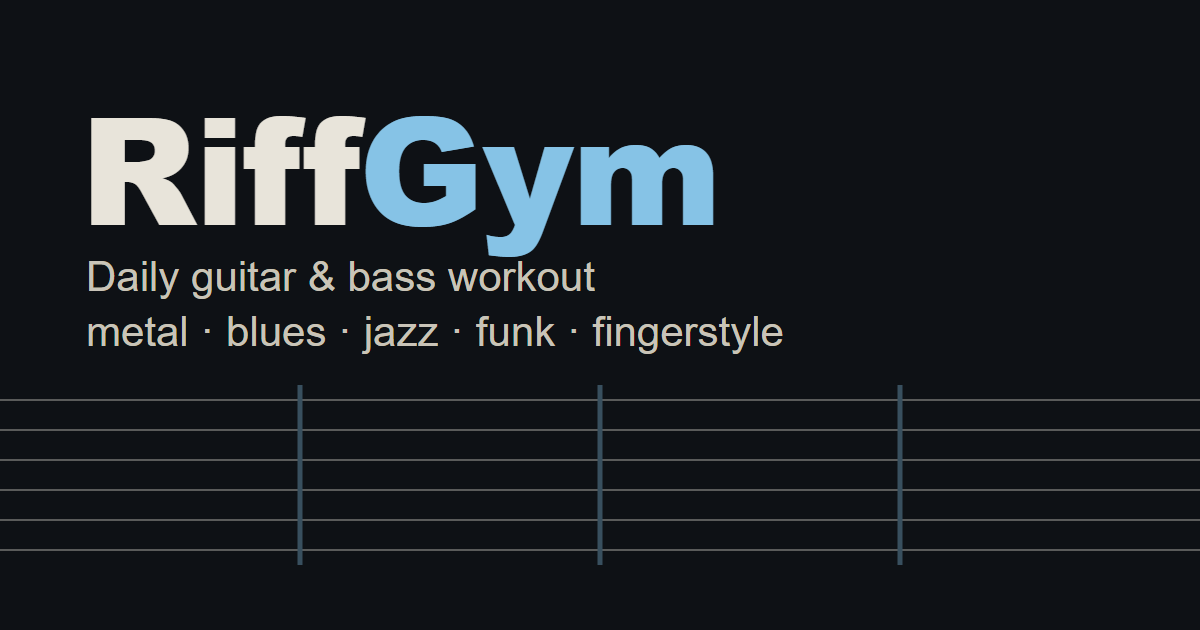
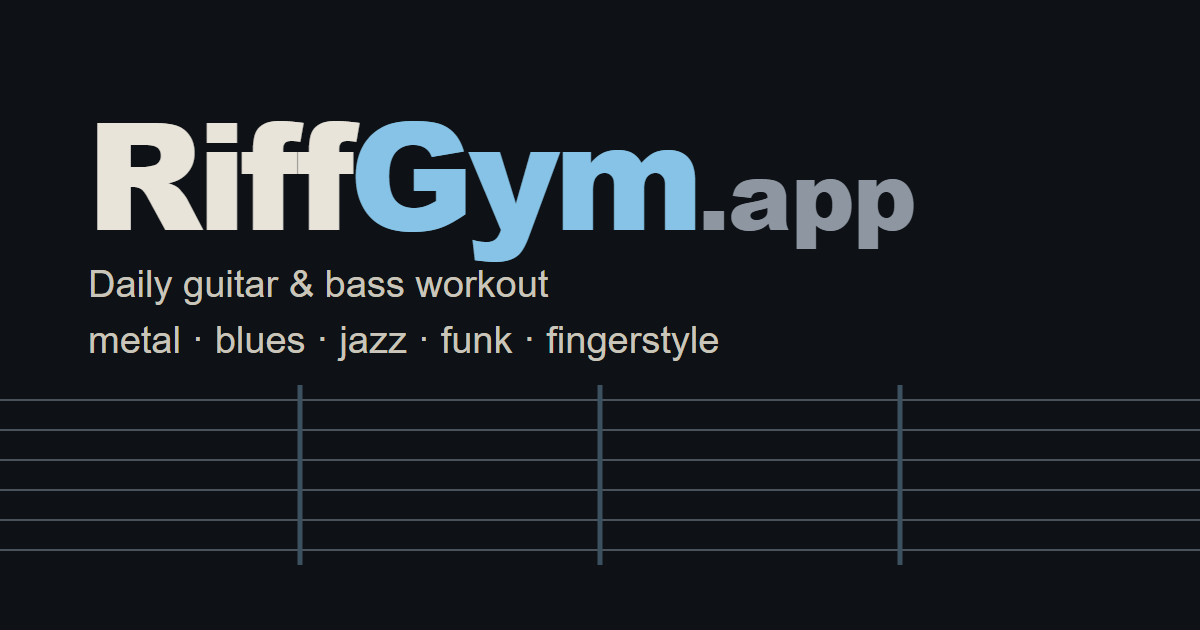
Dark graphite theme by default, blue accent, RiffGym.app in og.png

Changed region(s): [[0.0617, 0.181, 0.7708, 0.573], [0.3392, 0.3619, 0.37, 0.3921]]

diff --git a/css/app.css b/css/app.css
@@ -4,7 +4,7 @@
 :root{
   --bg:#f2f2f7; --card:#ffffff; --card2:#f7f7fa; --fg:#000000; --sec:#6e6e73; --ter:#c7c7cc;
   --sep:rgba(60,60,67,.18); --fill:rgba(118,118,128,.12);
-  --tint:#34c759; --onTint:#ffffff; --nav:#007aff; --onNav:#ffffff; --timer:#ff9500; --onTimer:#ffffff; --rest:#5e5ce6; --danger:#ff3b30;
+  --tint:#1c6890; --onTint:#ffffff; --nav:#1c6890; --onNav:#ffffff; --timer:#ff9500; --onTimer:#ffffff; --rest:#5e5ce6; --danger:#ff3b30;
   --nb1:#ffffff; --nb2:#ececf0; --hl:rgba(255,255,255,.95); --edge:rgba(0,0,0,.1);
   --sheet:#ffffff; --ink:#111111;
   --k-warm:#ff9500; --k-base:#007aff; --k-focus:#34c759; --k-maint:#8e8e93; --k-combo:#af52de; --k-music:#ff2d55; --k-pause:#a1a1a6; --k-test:#ff3b30;
@@ -15,19 +15,19 @@
   color-scheme:light;
 }
 @media (prefers-color-scheme:dark){:root:not([data-theme="light"]){
-  --bg:#000000; --card:#1c1c1e; --card2:#2c2c2e; --fg:#ffffff; --sec:#8e8e93; --ter:#48484a;
+  --bg:#2a2c30; --card:#36383d; --card2:#414349; --fg:#f5f5f7; --sec:#a3a4ab; --ter:#61636a;
   --sep:rgba(84,84,88,.6); --fill:rgba(118,118,128,.24);
-  --tint:#a6ff00; --onTint:#000000; --nav:#a6ff00; --onNav:#000000; --timer:#ffd60a; --onTimer:#000000; --rest:#7d7aff; --danger:#ff453a;
-  --nb1:#3a3a3c; --nb2:#29292b; --hl:rgba(255,255,255,.14); --edge:rgba(0,0,0,.55);
-  --sheet:#1c1c1e; --ink:#ffffff;
+  --tint:#86c3e6; --onTint:#0b0e12; --nav:#86c3e6; --onNav:#0b0e12; --timer:#ffd60a; --onTimer:#000000; --rest:#7d7aff; --danger:#ff453a;
+  --nb1:#505259; --nb2:#3e4046; --hl:rgba(255,255,255,.14); --edge:rgba(0,0,0,.5);
+  --sheet:#36383d; --ink:#ffffff;
   --k-warm:#ff9f0a; --k-base:#0a84ff; --k-focus:#30d158; --k-maint:#8e8e93; --k-combo:#bf5af2; --k-music:#ff375f; --k-pause:#636366; --k-test:#ff453a;
   color-scheme:dark}}
 :root[data-theme="dark"]{
-  --bg:#000000; --card:#1c1c1e; --card2:#2c2c2e; --fg:#ffffff; --sec:#8e8e93; --ter:#48484a;
+  --bg:#2a2c30; --card:#36383d; --card2:#414349; --fg:#f5f5f7; --sec:#a3a4ab; --ter:#61636a;
   --sep:rgba(84,84,88,.6); --fill:rgba(118,118,128,.24);
-  --tint:#a6ff00; --onTint:#000000; --nav:#a6ff00; --onNav:#000000; --timer:#ffd60a; --onTimer:#000000; --rest:#7d7aff; --danger:#ff453a;
-  --nb1:#3a3a3c; --nb2:#29292b; --hl:rgba(255,255,255,.14); --edge:rgba(0,0,0,.55);
-  --sheet:#1c1c1e; --ink:#ffffff;
+  --tint:#86c3e6; --onTint:#0b0e12; --nav:#86c3e6; --onNav:#0b0e12; --timer:#ffd60a; --onTimer:#000000; --rest:#7d7aff; --danger:#ff453a;
+  --nb1:#505259; --nb2:#3e4046; --hl:rgba(255,255,255,.14); --edge:rgba(0,0,0,.5);
+  --sheet:#36383d; --ink:#ffffff;
   --k-warm:#ff9f0a; --k-base:#0a84ff; --k-focus:#30d158; --k-maint:#8e8e93; --k-combo:#bf5af2; --k-music:#ff375f; --k-pause:#636366; --k-test:#ff453a;
   color-scheme:dark}
 *{box-sizing:border-box}
@@ -393,8 +393,6 @@ textarea.share{width:100%;min-height:160px;background:var(--card);border:0;borde
 .pg-empty{margin:8px 0 2px;font-size:14px}
 .pg-st .lab2{margin-top:6px;font:700 22px var(--f);letter-spacing:-.01em;color:var(--c,var(--fg))}
 .st-prod{--c:var(--k-focus)}.st-keep{--c:var(--k-base)}.st-rest{--c:var(--rest)}.st-low{--c:var(--timer)}.st-over{--c:var(--danger)}.st-none{--c:var(--sec)}
-:root[data-theme="dark"] .st-prod{--c:var(--tint)}
-@media (prefers-color-scheme:dark){:root:not([data-theme="light"]) .st-prod{--c:var(--tint)}}
 .pg-line{margin:10px 0 0;font-size:15px}
 .pg-nums{display:grid;grid-template-columns:repeat(3,1fr);gap:8px;margin-top:10px}
 .pg-nums div{display:flex;flex-direction:column;gap:2px;min-width:0}

diff --git a/tests/invariants.spec.js b/tests/invariants.spec.js
@@ -360,11 +360,15 @@ test('масштаб табов: 4 размера, запоминается в g
   expect(await page.evaluate(() => getComputedStyle(document.documentElement).getPropertyValue('--tabz').trim())).toBe('1.5');
 });
 
-test('тема: авто, светлая, тёмная — запоминается в grif.theme', async ({ page }) => {
+test('тема: по умолчанию тёмная; авто, светлая, тёмная — запоминается в grif.theme', async ({ page }) => {
   const errors = await openApp(page, 'en');
   const attr = () => page.evaluate(() => document.documentElement.getAttribute('data-theme'));
-  expect(await attr()).toBeNull();
+  expect(await attr()).toBe('dark');
+  await expect(page.locator('#themeSw button[data-theme-set="dark"]')).toHaveAttribute('aria-pressed', 'true');
+  expect(await page.evaluate(() => localStorage.getItem('grif.theme'))).toBeNull();
   await page.click('#setBtn');
+  await page.click('#themeSw button[data-theme-set="light"]');
+  expect(await attr()).toBe('light');
   await page.click('#themeSw button[data-theme-set="dark"]');
   expect(await attr()).toBe('dark');
   await expect(page.locator('#themeSw button[data-theme-set="dark"]')).toHaveAttribute('aria-pressed', 'true');

diff --git a/js/engine.js b/js/engine.js
@@ -220,9 +220,9 @@ function fmtStart(min){const h=Math.floor(min/60),m=min%60;return h+':'+String(m
 function timeLabel(T){if(T<60)return T+L(' мин',' min');const h=Math.floor(T/60),m=T%60;return h+L(' ч',' h')+(m?' '+m:'');}
 
 /* ================= рендер ================= */
-// Тема: auto — по системе, light/dark — выбор пользователя (grif.theme)
+// Тема: по умолчанию тёмная (решение автора от 2026-11-23); auto — по системе, light/dark — выбор пользователя (grif.theme)
 const THEMES=['auto','light','dark'];
-let THEME=(x=>THEMES.includes(x)?x:'auto')(lsGet('theme','auto'));
+let THEME=(x=>THEMES.includes(x)?x:'dark')(lsGet('theme','dark'));
 function applyTheme(){
   const r=document.documentElement;if(THEME==='auto')r.removeAttribute('data-theme');else r.setAttribute('data-theme',THEME);
   const m=document.querySelector('meta[name="theme-color"]');if(m)m.content=getComputedStyle(r).getPropertyValue('--bg').trim()||'#0e1115';

diff --git a/index.html b/index.html
@@ -23,7 +23,7 @@
 <meta name="twitter:title" content="RiffGym — daily guitar & bass workout">
 <meta name="twitter:description" content="Daily guitar, acoustic and bass practice: death metal, blues, jazz, funk, fingerstyle.">
 <meta name="twitter:image" content="https://riffgym.app/img/og.png">
-<meta name="theme-color" content="#0e1115">
+<meta name="theme-color" content="#2a2c30">
 <meta name="application-name" content="RiffGym">
 <meta name="apple-mobile-web-app-title" content="RiffGym">
 <meta name="mobile-web-app-capable" content="yes">

diff --git a/CLAUDE.md b/CLAUDE.md
@@ -67,7 +67,7 @@
 Для отладки наружу торчит `window.__grif` (buildSession, coachPlan, dayInfo, resolveEx, ALLOC, TIMES, renderTab, parseTab, tabHtml, TUNINGS, Pl, setLang, setInst, setStrings, setHand, genEx, X, VX, getLvl, st, co, `*_GUITAR`/`*_BASS`; EX, EXEN, GROUPS, TESTS, COACH, INST, STRINGS, HAND — геттеры активного инструмента).
 
 ## Редизайн (решение автора от 2026-11-21, в работе)
-- Утверждённый макет — `docs/redesign/mockup.html` (копия артефакта). Основа — системный стиль Apple Fitness / «Здоровье» (светлая тема как «Здоровье», тёмная как Fitness), фазы цикла и статус словами — от Garmin, курсор по табу, цикл и отсчёт — от Moises, библиотека с обложками — от Suno.
+- Утверждённый макет — `docs/redesign/mockup.html` (копия артефакта). Основа — системный стиль Apple Fitness / «Здоровье» (светлая тема как «Здоровье», тёмная — графит #2a2c30, по умолчанию; основной цвет — голубой #86c3e6, в светлой #1c6890; решение автора от 2026-11-23), фазы цикла и статус словами — от Garmin, курсор по табу, цикл и отсчёт — от Moises, библиотека с обложками — от Suno.
 - Иконки, обложки и кнопки: градиент своего цвета с лёгким рельефом (блик сверху, тень снизу); знаки — набор Lucide, в приложении встраиваются в код, а не грузятся с CDN. Экраны и карточки без градиента остаются плоскими.
 - Навигация: нижние вкладки «Сегодня / Упражнения / Прогресс / Профиль». Отдельный полноэкранный режим «Занятие» (таб крупно, таймер подхода, фраза тренера, внизу темп, уровень, вариант, пауза; размер, деление и рывки — за «⚙ метроном»). Жанр не в шапке: выбирается в онбординге, меняется в профиле.
 - Онбординг при первом входе (исключение из «без онбординга»; сделан на этапе 3, `js/ui.js`, `#onb`): инструмент → жанр (только жанры, где есть этот инструмент; у каждого — что тренируется и инструменты) → время, «Назад», «Пропустить», переключатель RU/EN. Показывается, если в `localStorage` нет ни `grif.genre`, ни `grif.inst`, ни `grif.time` и в адресе нет жанра, инструмента или `library` (`onbNeeded`). «Начать» и «Пропустить» записывают `inst`, `genre`, `time`, `lang`; новых ключей нет. План дня от выбора не зависит. В тестах `openApp` заранее кладёт `grif.time = 60`, сам онбординг проверяет `tests/onboarding.spec.js`.
